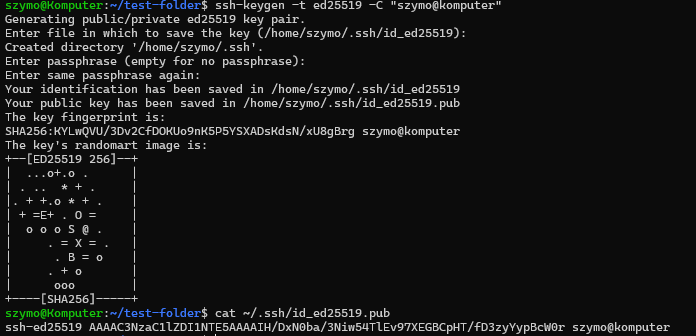
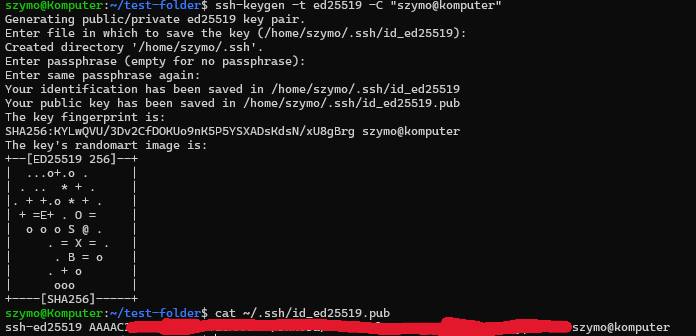
Zaktualizowano README i usunięto INSTRUKCJA.md

Changed region(s): [[0.181, 0.9226, 0.8448, 1.0]]

diff --git a/README.md b/README.md
@@ -1,1 +1,111 @@
-# DockerWorldle
+# Wordle PL - Projekt DevOps
+
+> **Polska wersja gry Wordle z pełnym stack''iem DevOps**
+
+ **Demo:** [http://localhost:8080](http://localhost:8080) (lokalnie)  
+ **Pełne sprawozdanie:** [SPRAWOZDANIE.md](SPRAWOZDANIE.md)
+
+---
+
+##  Szybki Start
+
+```bash
+# Klonowanie repozytorium
+git clone https://github.com/SzymonAdamski/DockerWorldle.git
+cd DockerWorldle
+
+# Uruchomienie aplikacji
+docker-compose up -d
+
+# Aplikacja dostępna na http://localhost:8080
+```
+
+---
+
+##  Stack Technologiczny
+
+| Technologia | Zastosowanie |
+|-------------|--------------|
+| **Node.js + Express** | Backend API |
+| **HTML/CSS/JavaScript** | Frontend |
+| **Docker** | Konteneryzacja |
+| **Docker Compose** | Orkiestracja lokalna |
+| **GitHub Actions** | CI/CD Pipeline |
+| **Kubernetes** | Orkiestracja produkcyjna |
+| **Nginx** | Reverse proxy |
+
+---
+
+##  Dokumentacja
+
+ **[Pełne sprawozdanie laboratoryjne](SPRAWOZDANIE.md)**
+
+Zawiera szczegółowe opisy:
+- Linux - podstawowe komendy
+- Git - wersjonowanie i SSH
+- Docker - konteneryzacja
+- Docker Compose - orkiestracja
+- CI/CD - GitHub Actions
+- Kubernetes - deployment produkcyjny
+- Wnioski i best practices
+
+---
+
+##  Funkcjonalności
+
+ Polska wersja Wordle z 365 słowami  
+ Responsywny interfejs  
+ Backend API z sesyjnym zarządzaniem  
+ Konteneryzacja Docker  
+ Automatyczne testy CI/CD  
+ Gotowość do produkcji (K8s)  
+
+---
+
+##  Komendy
+
+```bash
+# Development
+docker-compose up        # Uruchom z logami
+docker-compose down      # Zatrzymaj
+docker-compose restart   # Restart
+
+# Logi
+docker-compose logs backend
+docker-compose logs frontend
+
+# Build
+docker-compose up --build
+
+# Kubernetes (opcjonalnie)
+kubectl apply -f k8s/
+kubectl get pods
+```
+
+---
+
+##  Architektura
+
+```
+      
+   Frontend     Backend   
+  (Nginx:80)        (Node:3000) 
+      
+                           
+        Docker 
+              Network
+```
+
+---
+
+##  Autor
+
+**Szymon Adamski**  
+Projekt laboratoryjny - Cykl życia i narzędzia DevOps  
+Data: 6 grudnia 2025
+
+---
+
+##  Licencja
+
+Projekt edukacyjny - MIT License
